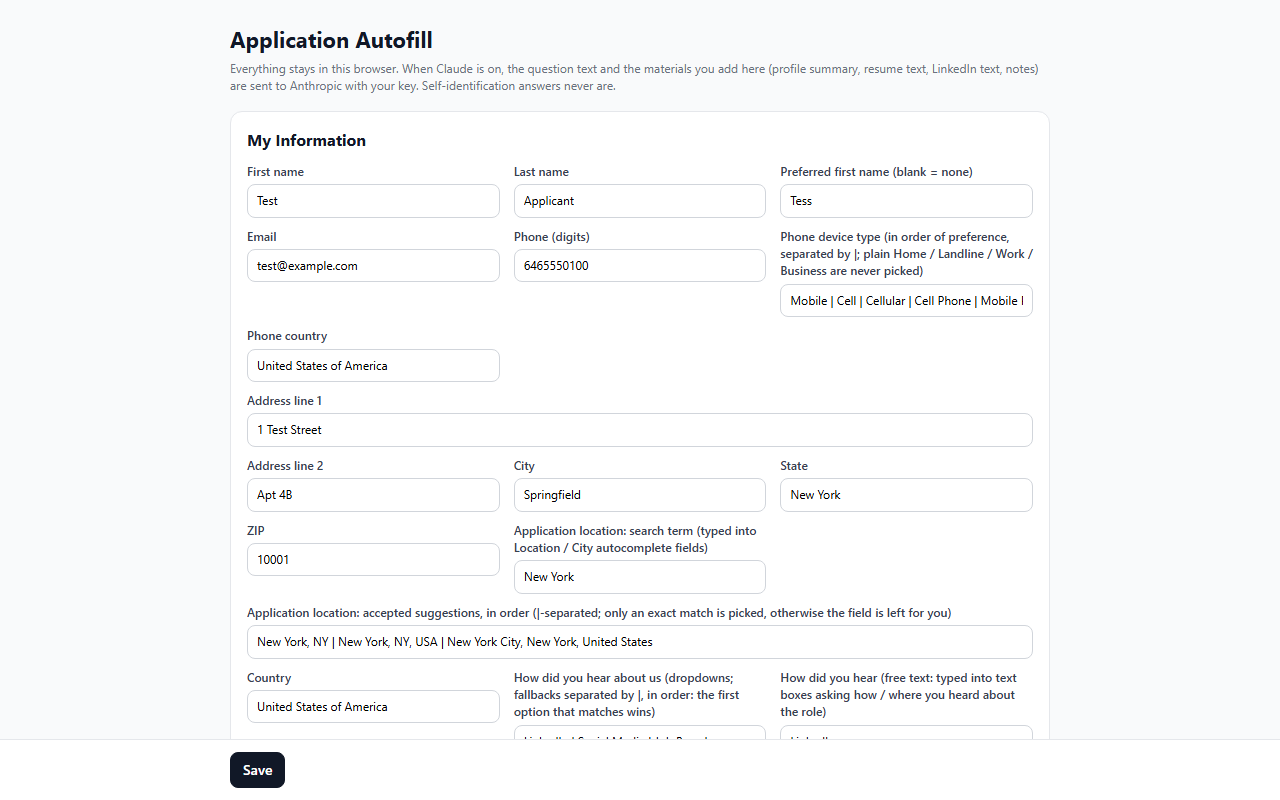
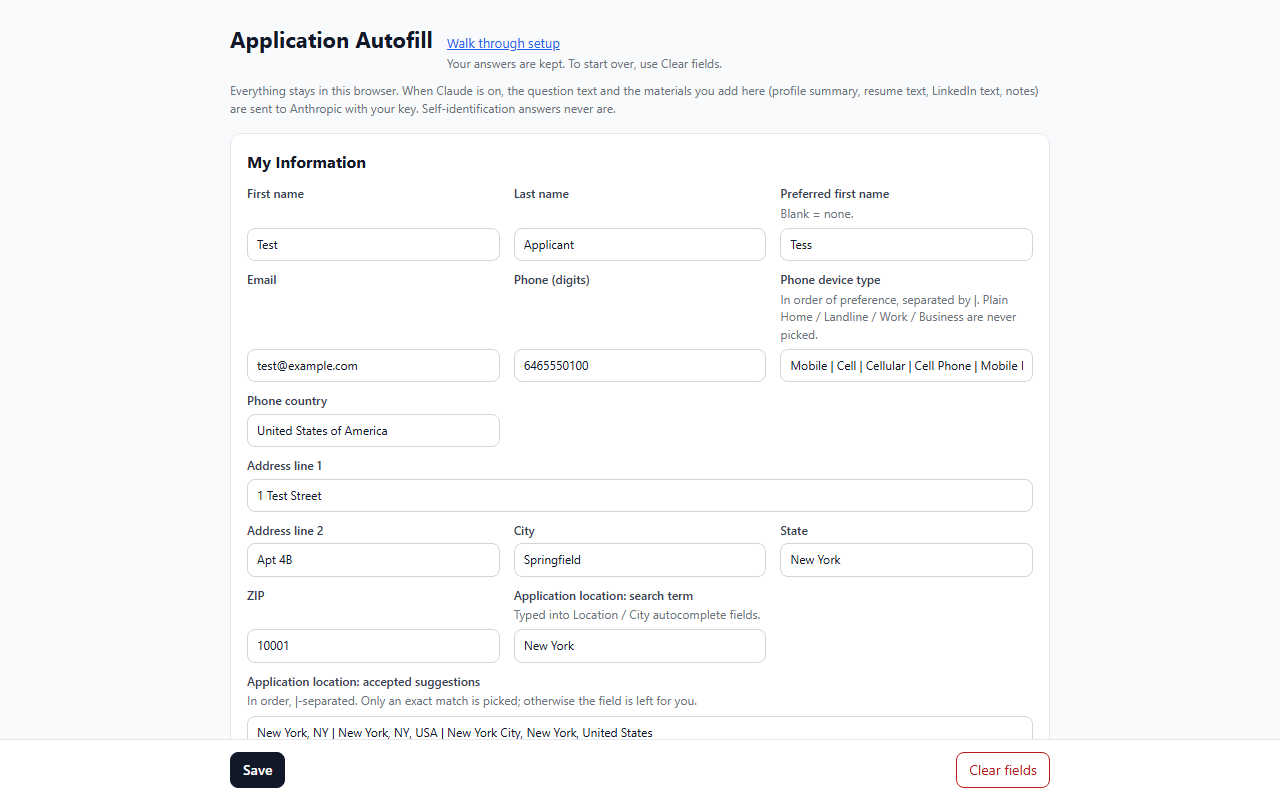
Release 1.1.0: changelog, store listing and screenshots
CHANGELOG 1.1.0 dated 2026-11-15. Store listing describes setup and resume prefill;
Options screenshots re-rendered (light theme) and a fourth one of the setup guide
with suggestions from the resume. The screenshot tool now loads every Options script.

diff --git a/store/src/options-stub.js b/store/src/options-stub.js
@@ -1,6 +1,6 @@
 // Store screenshot source (fake data, fictional companies): a chrome.storage stub for options.html, loaded by the
-// screenshot build page before options.js (tools/screenshots.ps1). window.__shot = "options" (the top of the page) or
-// "learned" (only the Learned answers section is shown).
+// screenshot build page before options.js (tools/screenshots.ps1). window.__shot = "options" (the top of the page),
+// "learned" (only the Learned answers section is shown) or "setup" (the setup guide with suggestions from the resume).
 (() => {
   const now = Date.now();
   const STORE = {
@@ -44,6 +44,22 @@
     ],
     resumeFile: { name: "Test_Applicant_Resume.pdf", type: "application/pdf", dataUrl: "data:application/pdf;base64,JVBERi0xLjQK" },
   };
+  // The setup shot: a new profile with only the materials and the key, the guide at step 3 (contact info), and the
+  // contact details suggested from the resume, outlined until accepted.
+  if (window.__shot === "setup") {
+    const P = STORE.profile;
+    STORE.profile = { resumeText: P.resumeText + "\ntest@example.com | 646-555-0100 | Springfield, NY | github.com/test-applicant", linkedinText: P.linkedinText, api: P.api };
+    delete STORE.learned;
+    delete STORE.learnedDeleted;
+    STORE.onboarding = { step: 2 };
+    const from = "resume";
+    STORE.prefill = {
+      at: now, ranFor: "shot",
+      fields: { firstName: { value: "Test", from }, lastName: { value: "Applicant", from }, preferredName: { value: "Tess", from }, email: { value: "test@example.com", from }, phone: { value: "6465550100", from }, city: { value: "Springfield", from }, state: { value: "New York", from }, linkedin: { value: "https://www.linkedin.com/in/test-applicant", from: "LinkedIn profile" }, github: { value: "https://github.com/test-applicant", from } },
+      extras: {}, cards: [], dropped: [], note: "",
+      summary: "Filled 9 fields from your resume; review each step.",
+    };
+  }
   window.chrome = {
     storage: {
       local: {

diff --git a/CLAUDE.md b/CLAUDE.md
@@ -35,13 +35,13 @@ Content scripts are split into shared modules and one adapter per portal. They a
 - `pdftext.js` (Options; `globalThis.AAF_PDFTEXT.extract(arrayBuffer)` / `isPdf(file)`): PDF text in the browser with the bundled pdf.js (`lib/pdfjs/`: pdfjs-dist 5.7.284 `pdf.min.mjs` + `pdf.worker.min.mjs` + its Apache-2.0 LICENSE, vendored unchanged; loaded by `import()` from the extension's own files; no CDN, no fetches, `isEvalSupported: false`). The parser runs on the page's thread (`globalThis.pdfjsWorker`, no Worker). The text is rebuilt from item positions (`layout(pages)`, exported for tests), never from pdf.js's end-of-line marks (they gave a blank line after every line on real resumes): items on one baseline are one line, left to right, a space at a space-sized gap, " | " at a wide gap (a right-aligned date / location beside a title); "Page N of M" / "N / M" / "- N -" lines are dropped; an empty vertical band no item crosses, with 3+ lines on both sides, splits the page into two columns, the one with more text is the main one, and all main columns come first, then the sidebars (LinkedIn); a line joins the one before it (with a space) when the spacing is normal, the line before reaches the column's right side, the size matches, it's not a bullet, and neither is an email / link on its own; never joined (a new block, after real files showed "...strict evidence rules. AI Engineer Intern | June 2026 - August 2026" and "...PostgreSQL Frameworks: Node.js"): a line with a right-aligned piece (" | "), a line whose first font (pdf.js's `fontName`: bold is its own font) differs from both fonts of the line before, a "Label:" line (up to four words before the colon), or, after an indented bullet continuation, a line starting further left; a larger gap (scaled by font size) is a blank line, except between pages when one page ends on a bullet and the next starts with one (a list across a page break); "evals.Most" gets its space (a period between 2+ lowercase letters and a capitalized word, never inside a token with "@", "/" or "www.", nor after one letter like "e.g.", nor in decimals); a word ending in a hyphen joins without a space and keeps the hyphen ("end-to-" + "end"), and a link split at "-" / "/" is rejoined even on a short line; in a sidebar only split links / hyphenated words are joined (its lists stay one item per line). Options uses it for a PDF resume (-> Resume text) and LinkedIn's "Save to PDF" (-> LinkedIn profile (text); the file itself is never stored); a box already holding other text is kept, with a "Replace it with the PDF's text" link. Nothing is saved until Save / Next. `tools/build.js` packages `lib/...` paths a script names, plus that folder's LICENSE. The privacy allowlist has one line of the pdf.js worker (an XFA class name equal to a case-sensitive pattern).
 - `tests/options/`: Options-page tests (run by `tests/run.ps1` unless `-Only`; by hand `node tests/options/run.js [--tree <folder>] [--only <scenario prefix>]`). `run.js` serves the tree over a loopback-only http server (pdf.js is an ES module, which doesn't load from file://), injects `stub.js` (chrome.* stub, storage seeded per scenario `?s=<name>`, downloads recorded) and `driver.js` (the scenarios, PASS / FAIL lines) into the real options.html, and runs headless Edge per scenario; exit 1 on a FAIL. `make-pdfs.js` writes the fake PDFs with real Helvetica metrics (it prints how each paragraph wrapped): `fake-resume.pdf` (one column, FlateDecode: centered "Test (Tess) Applicant" and a contact line ending in a link with a path, right-aligned dates and places, wrapped bullets, one stored word by word and one with "evals." and "Most" as touching pieces, bullets ending on a full-width line followed at normal spacing by a bold title with a date, a bold title without one and a plain line at the margin, "Label:" skills lines (one with a bold label), a line of spacing-rule exceptions, a "Page 1 of 1" footer) and `fake-linkedin.pdf` (a left sidebar with a profile link broken at "-", a "(Personal)" site, lists with a domain-like tool in Top Skills, and the main column with a paragraph wrapped after "evals." and one broken inside "end-to-end", a bullet list that continues on page 2; page 2 main only; "Page N of 2" footers). `node tests/options/run.js --dump <pdf>` prints what pdftext.js makes of any PDF under the repo (your own as git-ignored `tests/options/*-raw.pdf`; a dump is printed only, never written to tests/.out). Scenarios: empty / api-only (guide opens), filled (not shown; Walk through setup), resume (opens at the saved step), skipped, pdf (both extractions, own text kept, replace), next (Next saves, Back / Skip step don't, an invalid date keeps the step, Skip setup), done (summary, Go to step, Finish), clear-default / clear-ticked / clear-cancel / clear-export, reload-setup (extract a PDF and type, reload without Next: step, file, texts kept; Next, type on step 2, reload: step 2 kept), reload-outside (an extracted text saved alone survives a reload), leave-warns (an edit shows "Unsaved changes" and beforeunload asks; Save clears it; card add / remove count), prefill-setup (both PDFs and a key: one PREFILL call; contact suggestions not saved until accepted; Accept / Discard / edit; Next accepts the rest; four job cards with the current one, the date conflict flagged, the invented job and bullet dropped and listed; skills / certifications / education / graduation / language; fixed answers and self-ID untouched), prefill-nokey (no call, contact details and skills from the text only), prefill-links (`deterministic` on small texts: where a website may come from, nicknames; certification core names), import-empty / import-replace / import-cancel (only empty: nothing you set changes, cards merged without duplicates, learned answers deduplicated, deleted and blocked ones skipped, Settings unticked untouched; Replace: the warning, the backup wins, still never the API key; Cancel and non-backup files write nothing), autofill-outside / autofill-setup (the form, the tokens, autocomplete off on self-ID and the key, submit prevented, a change event alone counts, saved / auto-saved), prefill-existing (outside setup, a filled profile: a typed value never overwritten, Replace offered, jobs / schools already there not added, Save saves accepted values only, suggestions survive a reload unsaved). The stub answers PREFILL with a canned reply (`PREFILL` in stub.js) holding an invented job, an invented bullet and a LinkedIn start month that differs from the resume's. `stub.js` keeps its storage in sessionStorage, so a real `location.reload()` keeps it; a scenario returning "reload" carries its lines over. Outputs in `tests/.out/options-<scenario>.txt`.
 - `popup.html` / `popup.js`: toolbar popup (fill button, AI, learning and draft-mode toggles, the current shortcut from `chrome.commands.getAll()`, and the build line in its footer, see Rules: "Which build is running"). Fill sends `FILL_TAB` to background.js.
-- Store packaging (2026-11-08; manifest version 1.0.2; 1.0.1 after the store rejected 1.0.0 for keyword spam: the portal names are listed once, in the long description, and nowhere in the manifest description or the promo tile; 1.0.2 adds the Kestrel Labs fixes): `tools/build.js` (Node, no dependencies) writes `dist/application-autofill-<version>.zip` (git-ignored) with only the files the manifest and its scripts reference (manifest, background.js and its `importScripts`, the content scripts, popup and options pages with their scripts, the icons), fails on a missing file, reports a `shared/` / `adapters/` module nothing references, runs `tests/privacy-check.js --paths` on exactly those files plus `store/` (without `store/.build`) before writing, and reads the zip back (and `tar -tf`) to verify it. `tools/screenshots.ps1` (PowerShell tool) renders `store/screenshot-1-fill.png` (store/src/fill-demo.html, a Greenhouse-shaped fake page filled by the real content scripts, the Done toast kept open), `screenshot-2-options.png` / `screenshot-3-learned.png` (options.html with the stub `store/src/options-stub.js`), `promo-small-440x280.png` (store/src/promo-tile.html) and `icons/icon16/32/48.png` (store/src/icons.html, a canvas), checking every PNG's size; Edge's throwaway profiles go to `%TEMP%` because Edge writes the Windows user name into them (the privacy check caught that in `store/.build`). `store/listing.md` holds the listing text, the single-purpose statement, the permission justifications and the data-usage answers; `PRIVACY.md` (repo root) is the privacy policy (local storage only, api.anthropic.com with the user's key, Limited Use wording, how to delete). The manifest now has `icons` and `action.default_icon`; host permissions were already only the supported portals plus api.anthropic.com (the widest patterns, `*.myworkday.com` and `*.icims.com`, are needed because every tenant has its own host). `tests/privacy-check.js --paths <files / folders>` checks exactly those paths (folders recursively, whether or not git knows them).
+- Store packaging (2026-11-08; manifest version 1.0.2; 1.0.1 after the store rejected 1.0.0 for keyword spam: the portal names are listed once, in the long description, and nowhere in the manifest description or the promo tile; 1.0.2 adds the Kestrel Labs fixes): `tools/build.js` (Node, no dependencies) writes `dist/application-autofill-<version>.zip` (git-ignored) with only the files the manifest and its scripts reference (manifest, background.js and its `importScripts`, the content scripts, popup and options pages with their scripts, the icons), fails on a missing file, reports a `shared/` / `adapters/` module nothing references, runs `tests/privacy-check.js --paths` on exactly those files plus `store/` (without `store/.build`) before writing, and reads the zip back (and `tar -tf`) to verify it. `tools/screenshots.ps1` (PowerShell tool) renders `store/screenshot-1-fill.png` (store/src/fill-demo.html, a Greenhouse-shaped fake page filled by the real content scripts, the Done toast kept open), `screenshot-2-options.png` / `screenshot-3-learned.png` / `screenshot-4-setup.png` (options.html with every page script and the stub `store/src/options-stub.js`, `window.__shot` = options / learned / setup, light theme), `promo-small-440x280.png` (store/src/promo-tile.html) and `icons/icon16/32/48.png` (store/src/icons.html, a canvas), checking every PNG's size; Edge's throwaway profiles go to `%TEMP%` because Edge writes the Windows user name into them (the privacy check caught that in `store/.build`). `store/listing.md` holds the listing text, the single-purpose statement, the permission justifications and the data-usage answers; `PRIVACY.md` (repo root) is the privacy policy (local storage only, api.anthropic.com with the user's key, Limited Use wording, how to delete). The manifest now has `icons` and `action.default_icon`; host permissions were already only the supported portals plus api.anthropic.com (the widest patterns, `*.myworkday.com` and `*.icims.com`, are needed because every tenant has its own host). `tests/privacy-check.js --paths <files / folders>` checks exactly those paths (folders recursively, whether or not git knows them).
 - Filling a tab from outside the page (`fillTab` in background.js), used by the popup and the keyboard shortcut (manifest `commands` "fill-page", suggested Alt+Shift+F): PING the tab (every frame answers, so an embedded Greenhouse form on a company site works; only frames with a matching adapter have a listener). If nothing answers, inject the `content_scripts` entry whose `matches` fit the tab URL (with `allFrames` when the entry has `all_frames`), then send FILL. The toolbar badge shows progress: "…", then the number of fields needing the user (or ✓, or ! on error).
 - `tests/`: before/after regression check in headless Edge, plus `tests/bg-request.js` (background.js request bodies, Node; run.ps1 runs it). Run by hand only, never by run.ps1 (real API calls, key from `$env:ANTHROPIC_API_KEY`, never printed or saved): `node tests\live-smoke.js` (one tiny request per Claude path: question classifier, answers, drafts, experience check, meaning mapper, preference mapper, learning classifier, YC note, setup prefill; prints model and HTTP status, exit 1 on an HTTP error, an error result or unparseable JSON) and `node tests\reclassify-learned.js <exported backup> [--from YYYY-MM-DD] [--to YYYY-MM-DD]` (read-only: the learned entries saved in the window, default 2026-10-26 to 2026-11-01, when the learning classifier was down, with their Options category now, whether the patterns block them, and the classifier's verdict now, plus every company scope the next start will repair; nothing is moved). Both load background.js through `tests/lib-bg.js`. `powershell -ExecutionPolicy Bypass -File tests\run.ps1 [-Before <git ref, default HEAD: the last commit>] [-Only <fixture prefix>]`. Each `tests/fixtures/<adapter>-<name>.html` is a fake portal page: a stubbed `chrome` API (profile, canned Claude answers), widget look-alikes, and a `<!--SCRIPTS-->` placeholder. The runner fills the placeholder with each tree's content scripts in manifest order, forces `detect()`, runs a fill, and diffs the page's report: stats, `[autofill]` log lines with timings masked, every field's value and outline, and whether page-navigation buttons were clicked. Fixtures for an adapter missing from the "before" ref just print their output. Output goes to `tests/.out/` (git-ignored). Run it after any change to shared code; Workday, Greenhouse and Ashby fixtures must stay identical. Run it from the PowerShell tool, not Git Bash (its `tar` breaks the export); if headless Edge dies mid-run, run the groups separately with `-Only`. Edge's own stderr no longer stops the runner (Windows PowerShell 5.1 turned it into a terminating error under `Stop`). (The Workday skills summary's "slowest" list is timing-dependent and can reorder between runs.) Fixtures hold fake data only ("Test Applicant", preferred name "Tess", "1 Test Street", Springfield, zip 10001, test@example.com, 646-555-0100); the run starts with the privacy check (`tests/privacy-check.js`, the whole tree; see Current state), which fails with exit 1 on a hit.
 
 ## Current state (2026-11-14)
 - Last commit: see `git log -1`. The regression suite is green: 123 fixtures in `tests/fixtures/` (ashby 35, greenhouse 47, workday 23, icims 9, gem 3, lever 3, yc 2, rippling 1; `*-raw.html` captures are git-ignored and skipped), 617 corpus answers in `tests/expected.txt`, the background request check, the Options-page tests (24 scenarios, 262 checks in `tests/options/`) and the privacy check pass.
-- Version 1.1.0 (unreleased, GitHub issue "First-run setup"): the Options setup guide (`onboarding.js`), local PDF text extraction (`pdftext.js`, `lib/pdfjs/`), "Clear fields", dark mode for Options, autosave during setup / Unsaved changes outside it, and the prefill from the resume / LinkedIn text (`prefill.js`; PRIVACY.md and store/listing.md name "setup prefill" among what can be sent). The store screenshots (`tools/screenshots.ps1`) were not re-rendered: the Options shots would now show "Walk through setup" and "Clear fields".
+- Version 1.1.0 (released 2026-11-15, GitHub release v1.1.0; issue "First-run setup"): the Options setup guide (`onboarding.js`), local PDF text extraction (`pdftext.js`, `lib/pdfjs/`), "Clear fields", dark mode for Options, autosave during setup / Unsaved changes outside it, and the prefill from the resume / LinkedIn text (`prefill.js`; PRIVACY.md and store/listing.md name "setup prefill" among what can be sent). Also: selective import, the Options redesign (sub-cards, short labels with help text, auto-growing boxes), the EEO option-title fix. Store screenshots re-rendered for 1.1.0 (Options shots in light theme; a fourth, the setup guide with suggestions).
 - `tests\run.ps1` (from the PowerShell tool, not Git Bash): `powershell -ExecutionPolicy Bypass -File tests\run.ps1` compares every fixture with the last commit (`-Before <git ref>`, default HEAD); `-Only <fixture prefix>` runs a subset (`-Only ashby-several-offices`). It prints `===== <fixture> : identical to HEAD` or `DIFFERS from HEAD` with the changed lines, then runs `tests\bg-request.js` and the corpus check, and exits 1 on a privacy hit, a corpus miss or a failed request check (a difference alone only prints). Outputs: `tests\.out\<fixture>.before.txt` / `.after.txt` (cleared on each run, so read them right after; diff them to see a change in full). A full run takes several minutes: start it in the background.
 - `tests\bg-request.js` (Node, also run by run.ps1): background.js with stubbed `chrome` / `fetch`; every Claude path's request body (no temperature / top_p / top_k), 400 reporting, the cut-off retry (the same request with four times the room), classifier caches, the start-up cleanup and scope repair.
 - `tests\live-smoke.js` and `tests\reclassify-learned.js`: by hand only, real API calls, `$env:ANTHROPIC_API_KEY = "..."` first (never printed or saved). live-smoke: one tiny request per Claude path, exit 1 on an HTTP error / error result / unparseable reply. reclassify-learned: read-only report on an exported Options backup (`node tests\reclassify-learned.js <backup.json> [--from YYYY-MM-DD] [--to YYYY-MM-DD]`); nothing is written.

diff --git a/CHANGELOG.md b/CHANGELOG.md
@@ -2,17 +2,23 @@
 
 Company names in this file are fictional stand-ins for the job postings that taught each fix.
 
-## 1.1.0 (unreleased)
+## 1.1.0 (2026-11-15)
 
-- Options: a setup guide the first time Options opens with an empty profile, one section at a time over the real fields: resume and LinkedIn, contact info and links, work experience, education, work authorization and fixed answers, self-identification (optional), the Claude API key (optional, with what gets sent), and a summary of what is filled and what is blank. Back / Next / Skip step on each step, Next saves; "Skip setup" ends it, "Walk through setup" restarts it, and closing the tab resumes where you left off.
-- Options: a PDF resume and LinkedIn's "Save to PDF" are read in the browser by a bundled copy of pdf.js (no network, no remote code), and their text goes into Resume text / LinkedIn profile (text) for you to review. Text you typed yourself is kept unless you choose to replace it.
-- Options: "Clear fields" in the bottom bar clears the profile, the saved resume and the materials after a confirmation (with "Export backup first"); the API key and learned answers stay unless you tick them. The setup guide starts again afterwards.
-- Options: follows the system's light or dark mode.
-- Options: during setup every change is saved as you go, so a reload resumes the step with nothing lost; outside setup, "Unsaved changes" shows next to Save and leaving the page asks first.
-- Options: fill the profile from your resume and LinkedIn text, in the setup guide (the API key is now step 2) or with "Suggest fields from my resume". Contact details, links, city / state and skills come from the text itself; with a key, Claude reads work history, education, languages and certifications. Every value must appear in your text (anything else is left out and listed), dates that differ between the resume and LinkedIn are flagged, fields you already filled are never changed ("Replace" is offered), and nothing is saved until you accept it. Work authorization, sponsorship, citizenship, clearance, relocation, pay, start dates and self-identification are never filled this way. A job whose LinkedIn description differs from the resume's offers a toggle between the two (with their lengths, and a warning above 2,000 characters); LinkedIn's Top Skills are suggested separately from the resume's skills. Certificates, bootcamps and fellowships listed under Education are suggested as certifications, not schools; a language given with one overall level fills only the combined level.
-- Options: the Resume section is split into Resume, LinkedIn and For Claude cards (each upload right above its text); text boxes grow with their text and show a character count; long labels are a short name with the explanation underneath, and the controls in each row line up.
+Setup and profile editing in Options, plus fixes from real applications since 1.0.2. No new permissions.
+
+### New
+
+- Setup guide: the first time Options opens with an empty profile, it walks through the real fields one step at a time: resume and LinkedIn, the Claude API key (optional, with what gets sent), contact info and links, work experience and skills, education and languages, work authorization and fixed answers, self-identification (optional), and a summary of what is filled, partly filled and blank, with a link back to each step. Back / Next / Skip step on each step, Next saves; "Skip setup" ends it, "Walk through setup" restarts it, and closing the tab resumes where you left off.
+- PDF text in the browser: a PDF resume and LinkedIn's "Save to PDF" are read by a bundled copy of pdf.js (no network, no remote code), laid out by position (columns, right-aligned dates, wrapped lines, bullets, page footers), and the text goes into Resume text / LinkedIn profile text for you to review. Text you typed yourself is kept unless you choose to replace it.
+- Profile from your resume, with review: in the setup guide or with "Suggest fields from my resume". Contact details, links, city / state and skills come from the text itself; with a key, Claude reads work history, education, languages and certifications. Every value must appear in your text (anything else is left out and listed), dates that differ between the resume and LinkedIn are flagged, fields you already filled are never changed ("Replace" is offered), and nothing is saved until you accept it. Work authorization, sponsorship, citizenship, clearance, relocation, pay, start dates and self-identification are never filled this way. A job whose LinkedIn description differs from the resume's offers a toggle between the two (with their lengths, and a warning above 2,000 characters); LinkedIn's Top Skills are suggested separately; certificates, bootcamps and fellowships listed under Education are suggested as certifications (one name, however it is worded); a language given with one overall level fills only the combined level.
+- Clear fields: clears the profile, the saved resume and the materials after a confirmation (with "Export backup first"); the API key and learned answers stay unless you tick them. The setup guide starts again afterwards.
+- Selective import: importing a backup shows what it holds and lets you choose profile fields, materials, settings and learned answers, and whether to fill only empty fields or replace yours (with a warning listing what would change). Jobs, schools and languages are merged without duplicates, learned answers you deleted or that are never learned are skipped, and the API key is never imported.
+- Autosave: during setup every change is saved as you go, so a reload resumes the step with nothing lost; outside setup, "Unsaved changes" shows next to Save and leaving the page asks first.
+- Options redesign: light and dark mode; the Resume section split into Resume, LinkedIn and For Claude cards (each upload right above its text); text boxes that grow with their text and show a character count; short labels with the explanation underneath; controls that line up in each row; checkbox text that wraps beside its box; the contact fields work with the browser's address autofill.
+
+### Fixes
+
 - Lever and every other portal: self-identification radios and checkboxes whose options carry a description after the title ("Asian (Not Hispanic or Latino)" followed by "A person having origins in ...") are matched on the title only. The description names other groups, so the race answer used to find no acceptable option and the field was left empty.
-
 ## 1.0.2 (2026-11-14)
 
 Fixes from real applications, batched since 1.0.1.

diff --git a/store/listing.md b/store/listing.md
@@ -1,7 +1,7 @@
 # Chrome Web Store listing: Application Autofill
 
 Everything the developer dashboard asks for, ready to paste. Assets in this folder: `screenshot-1-fill.png`,
-`screenshot-2-options.png`, `screenshot-3-learned.png` (1280x800) and `promo-small-440x280.png`, rendered from the
+`screenshot-2-options.png`, `screenshot-3-learned.png`, `screenshot-4-setup.png` (1280x800) and `promo-small-440x280.png`, rendered from the
 fake-data pages in `src/` by `tools/screenshots.ps1`. The package is `dist/application-autofill-<version>.zip`, built by
 `node tools/build.js`.
 
@@ -18,6 +18,8 @@ fake-data pages in `src/` by `tools/screenshots.ps1`. The package is `dist/appli
 **Long description**:
 
 > Application Autofill fills job application forms from a profile you keep in the extension's Options page: contact details, work experience, education, links, your resume, and your fixed answers to the questions most applications ask (work authorization, sponsorship, relocation, clearance, how you heard about the job, and more). Start dates, pay and other questions that are yours alone are always left for you.
+>
+> Getting started: the first time you open Options, a short guide walks you through your profile one step at a time. Upload your resume (and, if you like, LinkedIn's "Save to PDF"): the text is read right in your browser, and the extension suggests your contact details, links and skills from it. With your own API key, Claude also suggests your work history, education and languages. Every suggestion is outlined until you accept it, anything not found in your own text is left out, and nothing you already entered is changed. Work authorization, pay, start dates and self-identification are never filled this way.
 >
 > It supports the most common applicant tracking systems: Workday, Greenhouse, Ashby, Lever, Gem, iCIMS and Rippling, including forms embedded on a company's own careers site.
 >
@@ -43,8 +45,9 @@ fake-data pages in `src/` by `tools/screenshots.ps1`. The package is `dist/appli
 
 **Screenshots** (1280x800):
 1. `screenshot-1-fill.png`: A filled application: plain profile fields, blue outlines on rule answers and the draft, yellow on the pay question, red on the AI-usage question, and the Done summary.
-2. `screenshot-2-options.png`: The Options page where the profile lives (fake data).
+2. `screenshot-2-options.png`: The Options page where the profile lives: short labels with help text under them (fake data).
 3. `screenshot-3-learned.png`: Learned answers waiting for review, each tagged with its category and the company it is scoped to.
+4. `screenshot-4-setup.png`: The setup guide, with contact details suggested from the resume and outlined until accepted.
 
 **Small promo tile** (440x280): `promo-small-440x280.png`.
 
@@ -71,7 +74,7 @@ fake-data pages in `src/` by `tools/screenshots.ps1`. The package is `dist/appli
 
 - [x] **Personally identifiable information**: name, email, phone, address, work and education history, links, the user's own answers to application questions. Entered by the user in Options; stored locally; a text summary is sent to the Anthropic API when the user has turned Claude on and a page has questions no rule answers; the resume and LinkedIn text the user added is also sent when the user asks Options to fill the profile from it (setup prefill).
 - [x] **Authentication information**: the user's own Anthropic API key, stored locally and sent only to api.anthropic.com as the request header.
-- [x] **Website content**: the labels, options and job description of the application page being filled, sent to the Anthropic API for the questions no rule answers (and only then).
+- [x] **Website content**: the labels, options and job description of the application page being filled, sent to the Anthropic API for the questions no rule answers (and only then). Not used by setup prefill, which reads only the user's own resume and LinkedIn text.
 - [ ] Health information
 - [ ] Financial and payment information (compensation questions are never filled or sent)
 - [ ] Personal communications
